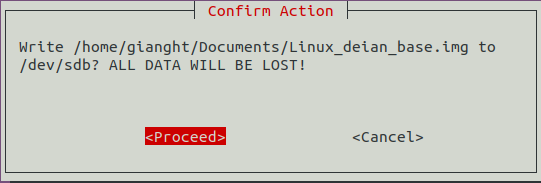
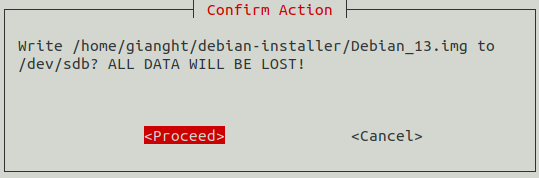
rz linux distros: release RZ/G2L Ubuntu and Debian support package v1.0.1

Changed region(s): [[0.0, 0.0, 1.0, 1.0], [0.2672, 0.6742, 0.4156, 0.8146], [0.6531, 0.7022, 0.8015, 0.8146]]

diff --git a/docs/evk/_components/rz-g2l-evk.md b/docs/evk/_components/rz-g2l-evk.md
@@ -14,7 +14,7 @@ Download the following packages for Ubuntu on RZ/G2L EVK.
     +---------------------------------------------------------------------------------------------------------------------------------------------------------------------------------------+---------------------------------------------------------------------------------------------------+
     | Package                                                                                                                                                                               | Description                                                                                       |
     +=======================================================================================================================================================================================+===================================================================================================+
-    | [RTK0EF0045Z0030AZJ-v1.0.0.zip](https://www.renesas.com/en/document/swo/rzg2l-ubuntu-support-package-v100-rtk0ef0045z0030azj-v100zip){: target=_blank }                               | RZ/G2L Ubuntu Support Package v1.0.0 (Renesas Linux kernel, bootloaders, other OSS, and scripts)  |
+    | [RTK0EF0045Z0030AZJ-v1.0.1.zip](https://www.renesas.com/document/swo/rzg2l-ubuntu-support-package-v101-rtk0ef0045z0030azj-v101zip){: target=_blank }                                  | RZ/G2L Ubuntu Support Package v1.0.1 (Renesas Linux kernel, bootloaders, other OSS, and scripts)  |
     +---------------------------------------------------------------------------------------------------------------------------------------------------------------------------------------+---------------------------------------------------------------------------------------------------+
     | [RTK0EF0045Z0032AZJ-v4.1.2.5_EN.zip](https://www.renesas.com/en/document/swo/rz-mpu-graphics-library-package-ubuntu-v4125-rzg2l-rtk0ef0045z0032azj-v4125enzip){: target=_blank }      | RZ MPU Graphics Library Package for Ubuntu V4.1.2.5 for RZ/G2L                                    |
     +---------------------------------------------------------------------------------------------------------------------------------------------------------------------------------------+---------------------------------------------------------------------------------------------------+
@@ -30,15 +30,10 @@ Download the following packages for Debian on RZ/G2L EVK.
     +---------------------------------------------------------------------------------------------------------------------------------------------------------------------------------------+---------------------------------------------------------------------------------------------------+
     | Package                                                                                                                                                                               | Description                                                                                       |
     +=======================================================================================================================================================================================+===================================================================================================+
-    | [RTK0EF0045Z0031AZJ-v1.0.0.zip](https://www.renesas.com/en/document/swo/rzg2l-debian-support-package-v100-rtk0ef0045z0031azj-v100zip){: target=_blank }                               | RZ/G2L Debian Support Package v1.0.0 (Renesas Linux kernel, bootloaders, other OSS, and scripts   |
+    | [RTK0EF0045Z0031AZJ-v1.0.1.zip](https://www.renesas.com/document/swo/rzg2l-debian-support-package-v101-rtk0ef0045z0031azj-v101zip){: target=_blank }                                  | RZ/G2L Debian Support Package v1.0.1 (Renesas Linux kernel, bootloaders, other OSS, and scripts   |
     +---------------------------------------------------------------------------------------------------------------------------------------------------------------------------------------+---------------------------------------------------------------------------------------------------+
     | [RTK0EF0045Z0033AZJ-v4.1.2.5_EN.zip](https://www.renesas.com/en/document/swo/rz-mpu-graphics-library-package-debian-v4125-rzg2l-rtk0ef0045z0033azj-v4125enzip){: target=_blank }      | RZ MPU Graphics Library Package for Debian V4.1.2.5 for RZ/G2L                                    |
     +---------------------------------------------------------------------------------------------------------------------------------------------------------------------------------------+---------------------------------------------------------------------------------------------------+
     | [RTK0EF0045Z0039AZJ-v4.1.3.0_EN.zip](https://www.renesas.com/en/document/swo/rz-mpu-video-codec-library-package-debian-v4130-rzg2l-rtk0ef0045z0039azj-v4130enzip){: target=_blank }   | RZ MPU Video Codec Library Package for Debian V4.1.3.0 for RZ/G2L                                 |
     +---------------------------------------------------------------------------------------------------------------------------------------------------------------------------------------+---------------------------------------------------------------------------------------------------+
-    | [debian13-testing-arm64-iso_May26-2025.7z](https://www.renesas.com/en/document/sws/debian-13-weekly-build-installation-image-arm64){: target=_blank }                                 | Debian 13 (Trixie) weekly build installation ISO image for ARM64 ^[1](#tf:1)^{: #tfref:1 }        |
-    +---------------------------------------------------------------------------------------------------------------------------------------------------------------------------------------+---------------------------------------------------------------------------------------------------+
 
-    1. The ISO image was generated on *May 26th, 2025*, and it was distributed at [Debian weekly build installation images](https://cdimage.debian.org/cdimage/weekly-builds/){: target=_blank }. <br>
-    Please note that the image is a "testing" version, and it is not a Debian 13 official release. [↩](#tfref:1){: .tf-backref }
-    {: #tf:1 }

diff --git a/docs/getting_started/_components/step_06.md b/docs/getting_started/_components/step_06.md
@@ -42,17 +42,18 @@ If it succeeds, you will see the following messages:
 
 ``` console
 NOTICE:  BL2: v2.9(release):v2.5/rzg2l-1.00-3892-gcc1869562
-NOTICE:  BL2: Built : 20:49:37, Jun 22 2025
+NOTICE:  BL2: Built : 16:36:45, Jul  2 2025
 NOTICE:  BL2: Booting BL31
 NOTICE:  BL31: v2.9(release):v2.5/rzg2l-1.00-3892-gcc1869562
-NOTICE:  BL31: Built : 20:49:38, Jun 22 2025
+NOTICE:  BL31: Built : 16:36:48, Jul  2 2025
 
 
-U-Boot 2021.10-g5141064c15 (Jun 22 2025 - 20:48:27 +0700)
+U-Boot 2021.10-gb105c304da (Jul 02 2025 - 16:35:42 +0700)
 
 CPU:   Renesas Electronics CPU rev 1.0
 Model: smarc-rzg2l
 DRAM:  1.9 GiB
+SF: Detected mt25qu512a with page size 256 Bytes, erase size 64 KiB, total 64 MiB
 WDT:   watchdog@0000000012800800
 WDT:   Started with servicing (60s timeout)
 MMC:   sd@11c00000: 0, sd@11c10000: 1
@@ -63,6 +64,8 @@ Err:   serial@1004b800
 U-boot WDT started!
 Net:
 Error: ethernet@11c20000 address not set.
+
+Error: ethernet@11c30000 address not set.
 No ethernet found.
 
 Hit any key to stop autoboot:  0
@@ -80,7 +83,7 @@ Configure U-Boot environment variables to boot from a microSD card as follows:
     ```
     {: .diamond2}
 
-    U-Boot will load _"efi/boot/bootaa64.efi"_ from EFI partition **(default: partition 1)** of the microSD card.
+    Load and boot _"bootaa64.efi"_ from EFI partition 1 of the microSD card (CN10).
     If the EFI partition resides on a different partition, such as partition 2, please modify _"1:1"_ to _"1:2"_.
 
 === "Debian"
@@ -91,32 +94,30 @@ Configure U-Boot environment variables to boot from a microSD card as follows:
     ```
     {: .diamond2}
 
-    U-Boot will load _"efi/boot/bootaa64.efi"_ from EFI partition **(default: partition 2)** of the microSD card.
+    Load and boot _"bootaa64.efi"_ from EFI partition 2 of the microSD card (CN10).
     If the EFI partition resides on a different partition, such as partition 1, please modify _"1:2"_ to _"1:1"_.
+
+
+The RZ/G2L EVK does not have a MAC address, so you need to set appropriate MAC addresses.
+Set the Ethernet MAC addresses on U-boot as follows:
+
+``` bash
+setenv ethaddr XX:XX:XX:XX:XX:XX
+setenv eth1addr XX:XX:XX:XX:XX:XX
+saveenv
+```
+{: .diamond2 }
+
+You can assign other values, but please ensure that they are unique.
+<font color="red">Both of the Ethernet MAC addresses must be defined;</font> otherwise, U-Boot will encounter a _"Synchronous Abort"_ exception when booting _"bootaa64.efi"_.
 
 !!! note
 
-    The RZ/G2L EVK does not have a MAC address, so you need to set an appropriate MAC address when you use ethernet.
-    You can set the address on U-boot as follows:
-
-    * For eth0,
-    ``` bash
-    setenv ethaddr XX:XX:XX:XX:XX:XX
-    saveenv
-    ```
-    {: .diamond2 }
-
-    * For eth1,
-    ``` bash
-    setenv eth1addr XX:XX:XX:XX:XX:XX
-    saveenv
-    ```
-    {: .diamond2 }
-
-    To restore default environment variables in u-boot, run the following command:
+    If you would like to restore default environment variables in u-boot, run the following command:
 
     ``` bash
     env default -a
+    saveenv
     ```
     {: .diamond2 }
 

diff --git a/docs/getting_started/getting_started_debian.md b/docs/getting_started/getting_started_debian.md
@@ -75,19 +75,9 @@ Here is the introduction and main functions.
     tar xf RTK0EF0045Z0033AZJ-v*_EN/rz-graphics-v*.tar.gz -C ${WORK_DIR}
     unzip RTK0EF0045Z0039AZJ-v*_EN.zip
     tar xf RTK0EF0045Z0039AZJ-v*_EN/rz-codecs-v*.tar.gz -C ${WORK_DIR}
-    7z x debian13-testing-arm64-iso_May26-2025.7z
-    mv debian13-testing-arm64-iso_May26-2025/debian-testing-arm64-DVD-1.iso ${WORK_DIR}/installer/downloads/
     ```
     {: .dollar }
 
-    !!! note
-
-        In the case that you have never used `#!bash 7z` on your PC, install `#!bash 7z` as follows:
-
-        ``` bash
-        sudo apt install p7zip-full
-        ```
-        {: .dollar }
 
 - Check your working directory:
 
@@ -131,7 +121,7 @@ Here is the introduction and main functions.
     When you perform this process for the first time, you need to create a new image (**2 Create New**).
     You can use the created image next time (**1 Browse**).
 
-- For the **1 Browse** option, use the file dialog to select the image (e.g., `#!bash Linux_deian_base.img`). Next, press **OK** to confirm and skip to [Section 4.2.2](#422-install-software).
+- For the **1 Browse** option, use the file dialog to select the image (e.g., `#!bash Debian_13.img`). Next, press **OK** to confirm and skip to [Section 4.2.2](#422-install-software).
 
     ![Choose image](images_debian/choose_image.png)
 
@@ -167,7 +157,7 @@ Here is the introduction and main functions.
 
     ![Select "Install Software" option](images_debian/option_install_software.png)
 
-- Enter the administrator password. The tool will then install all .deb packages into `Linux_deian_base.img`.
+- Enter the administrator password. The tool will then install all .deb packages into `Debian_13.img`.
 
     ![Install software packages](images_debian/install_renesas_sw.png)
 
@@ -179,7 +169,7 @@ Here is the introduction and main functions.
 
 - Plug in the microSD card to the Host PC.
 
-- Press Enter on **Write Image:** to write `#!bash Linux_deian_base.img` to the microSD card.
+- Press Enter on **Write Image:** to write `#!bash Debian_13.img` to the microSD card.
 
     ![Select "Write Image" option](images_debian/option_write_image.png)
 
@@ -191,7 +181,7 @@ Here is the introduction and main functions.
 
     ![Confirm action](images_debian/confirm_write_image.png)
 
-- The tool will write `#!bash Linux_deian_base.img` to `#!bash sdb Transcend (59,5G)`. Wait until 16GiB of data is written.
+- The tool will write `#!bash Debian_13.img` to `#!bash sdb Transcend (59,5G)`. Wait until 16GiB of data is written.
 
     ![Write image](images_debian/write_image.png)
 

diff --git a/docs/overview/_components/__front_matter.md b/docs/overview/_components/__front_matter.md
@@ -11,15 +11,13 @@ This solution supports the following distros and evaluation boards.
 
 !!! content-wrapper no-indent table-no-sort table-no-hover ""
 
-    +-----------------------------------+-------------------+-----------------------------------------------+
-    | Linux Distro                      | kernel Version    | Target Board                                  |
-    +===================================+===================+===============================================+
-    | Ubuntu 24.04                      | 6.1               | RZ/G2L EVK (RTK9744L23S01000BE)               |
-    +-----------------------------------+-------------------+-----------------------------------------------+
-    | Debian 13 testing                 | 6.1               | RZ/G2L EVK (RTK9744L23S01000BE)               |
-    | version^[1](#tf:1)^{: #tfref:1 }  |                   |                                               |
-    +-----------------------------------+-------------------+-----------------------------------------------+
+    +-------------------------------------------+-------------------+-----------------------------------------------+
+    | Linux Distro                              | kernel Version    | Target Board                                  |
+    +===========================================+===================+===============================================+
+    | Ubuntu 24.04                              | 6.1               | RZ/G2L EVK (RTK9744L23S01000BE)               |
+    +-------------------------------------------+-------------------+-----------------------------------------------+
+    | Debian 13 RC1^[1](#tf:1)^{: #tfref:1 }    | 6.1               | RZ/G2L EVK (RTK9744L23S01000BE)               |
+    +-------------------------------------------+-------------------+-----------------------------------------------+
 
-    1. This solution uses Debian 13 [weekly build](https://cdimage.debian.org/cdimage/weekly-builds/){: target=_blank } on May 26, 2025. <br>
-    For information about the *testing version*, refer to [Debian Releases](https://www.debian.org/releases/){: target=_blank }. [↩](#tfref:1){: .tf-backref }
+    1. This solution uses Debian 13 [RC1](https://www.debian.org/devel/debian-installer/News/2025/20250517){: target=_blank } on May 17, 2025. [↩](#tfref:1){: .tf-backref }
     {: #tf:1 }

diff --git a/docs/getting_started/_components/step_05.md b/docs/getting_started/_components/step_05.md
@@ -204,13 +204,13 @@ Send the data of `#!bash fip-smarc-rzg2*.srec` from terminal software in the sam
     In the case that the following message is shown, enter ++y++.
 
     ``` console
-    SPI Data Clear(H'FF) Check :H'00000000-0000FFFF,Clear OK?(y/n)
+    SPI Data Clear(H'FF) Check :H'00010000-000EFFFF,Clear OK?(y/n)
     ```
 
 After writing the data is completed, the following messages like below are shown on the terminal.
 
 ``` console
-SPI Data Clear(H'FF) Check :H'00010000-000DFFFF Erasing..............Erase Completed
+SPI Data Clear(H'FF) Check :H'00010000-000EFFFF Erasing..............Erase Completed
 SAVE SPI-FLASH.......
 ======= Qspi  Save Information  =================
  SpiFlashMemory Stat Address : H'0001D200

diff --git a/docs/history/_components/changelogs/20250731.md b/docs/history/_components/changelogs/20250731.md
@@ -1,0 +1,15 @@
+{% if render_title %}
+
+## *Ubuntu and Debian for Renesas RZ/G2L MPU Support*
+
+{% endif %}
+
+2025/07/31
+{: .right .small }
+
+* Ubuntu Server 24.04 on RZ/G2L EVK is available.
+    * RZ/G2L Ubuntu support package v1.0.1
+    * Linux kernel v6.1
+* Debian 13 RC1 on RZ/G2L EVK is available.
+    * RZ/G2L Debian support package v1.0.1
+    * Linux kernel v6.1
